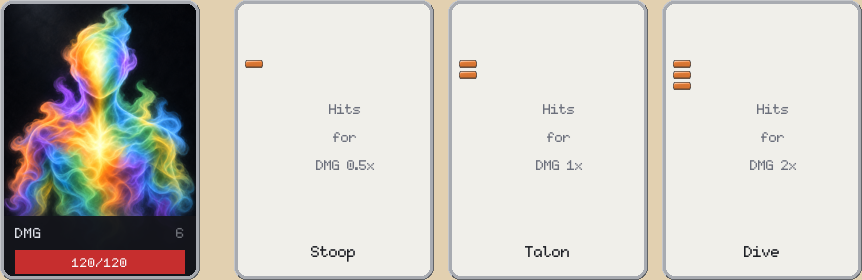
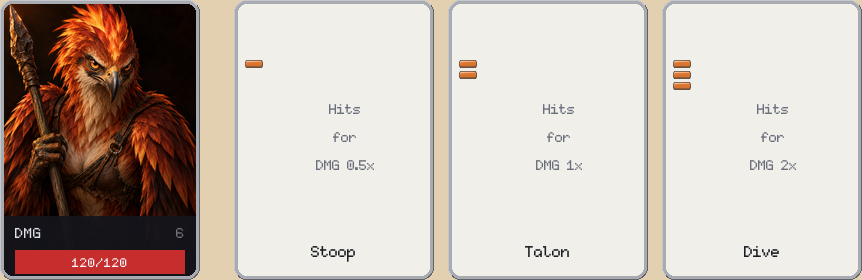
Draw the avians
Thirty-six portraits land in assets/enemy/ — nine records across three tiers,
each in the four elements its affinities allow — and the roster sheet is
regenerated, so the nine avian strips draw real art instead of
default-enemy.png and an other-colours row appears for each record now that it
has more than one picture to show.

All new files, nothing replaced: every one 200x280, every stem matching a
record, no record left without one. Only the avian strips and the sheet index
moved.

Changed region(s): [[0.0, 0.0, 0.2413, 0.7714]]

diff --git a/docs/sheets/motifsheet/index.html b/docs/sheets/motifsheet/index.html
@@ -1686,7 +1686,20 @@ table.cover td.short { color: #b03a3a; font-weight: 700; }
       <p class="affix">Dealt as: ice, lightning, earth, arcane</p>
 
       
-      <p class="draw">TBD</p>
+      <details class="others">
+        <summary>Show its other 3 colours</summary>
+        <div class="strip">
+          <div>
+            <img src="elements-avians-outer-crow.png" width="628" height="280"
+                 alt="Carrion Crow in its other colours">
+            <div class="elabels">
+              <span>Lightning</span><span>Earth</span><span>Arcane</span>
+            </div>
+          </div>
+        </div>
+      </details>
+      
+      <p class="draw">A scavenger that has been at something already. A heavy straight corvid bill, a ragged ruff standing up around the neck, and a lean frame with the wing-arms held half open and the primaries splayed. It carries a short hooked knife low in one claw, held the way a tool is held rather than a weapon, and it is looking at the viewer sideways with one eye.</p>
     </div>
   
     <div class="plate sheet-item" data-tier="outer" data-element="fire lightning earth arcane">
@@ -1740,7 +1753,20 @@ table.cover td.short { color: #b03a3a; font-weight: 700; }
       <p class="affix">Dealt as: fire, lightning, earth, arcane</p>
 
       
-      <p class="draw">TBD</p>
+      <details class="others">
+        <summary>Show its other 3 colours</summary>
+        <div class="strip">
+          <div>
+            <img src="elements-avians-outer-harrier.png" width="628" height="280"
+                 alt="Cliff Harrier in its other colours">
+            <div class="elabels">
+              <span>Lightning</span><span>Earth</span><span>Arcane</span>
+            </div>
+          </div>
+        </div>
+      </details>
+      
+      <p class="draw">A hunter that is about to leave. A raptor&#39;s head — small, smooth, with a deep hooked bill and a hard brow ridge over the eye — on narrow shoulders, with long pointed wing-arms swept back and mantled high behind it. It holds a short hunting spear upright against one shoulder, and the whole body is pitched slightly forward as though the ledge is right there.</p>
     </div>
   
     <div class="plate sheet-item" data-tier="outer" data-element="fire ice earth arcane">
@@ -1794,7 +1820,20 @@ table.cover td.short { color: #b03a3a; font-weight: 700; }
       <p class="affix">Dealt as: fire, ice, earth, arcane</p>
 
       
-      <p class="draw">TBD</p>
+      <details class="others">
+        <summary>Show its other 3 colours</summary>
+        <div class="strip">
+          <div>
+            <img src="elements-avians-outer-ratite.png" width="628" height="280"
+                 alt="Bone Ratite in its other colours">
+            <div class="elabels">
+              <span>Ice</span><span>Earth</span><span>Arcane</span>
+            </div>
+          </div>
+        </div>
+      </details>
+      
+      <p class="draw">A flightless bulk, built low and forward. A small flat head on a thick column of a neck, a blunt heavy bill, and shaggy hair-like plumage over a barrel chest; the wing-arms are stunted and useless, held tight in against the ribs. It grips a crude weighted club in both stubby claws. Frame it lower than its siblings so the tops of its enormous thighs make the bottom of the picture — that is where the creature lives.</p>
     </div>
   
     <div class="plate sheet-item" data-tier="inner" data-element="fire lightning earth arcane">
@@ -1848,7 +1887,20 @@ table.cover td.short { color: #b03a3a; font-weight: 700; }
       <p class="affix">Dealt as: fire, lightning, earth, arcane</p>
 
       
-      <p class="draw">TBD</p>
+      <details class="others">
+        <summary>Show its other 3 colours</summary>
+        <div class="strip">
+          <div>
+            <img src="elements-avians-inner-roc.png" width="628" height="280"
+                 alt="Young Roc in its other colours">
+            <div class="elabels">
+              <span>Lightning</span><span>Earth</span><span>Arcane</span>
+            </div>
+          </div>
+        </div>
+      </details>
+      
+      <p class="draw">A juvenile far too big for how young it is. An eagle&#39;s head and bill at twice the scale of anything around it, with patches of unshed down still standing up along the crown and shoulders, and wing-arms so broad they run out of the picture on both sides. It carries a length of splintered ship&#39;s timber as a club, one end still trailing rope.</p>
     </div>
   
     <div class="plate sheet-item" data-tier="inner" data-element="fire ice earth arcane">
@@ -1902,7 +1954,20 @@ table.cover td.short { color: #b03a3a; font-weight: 700; }
       <p class="affix">Dealt as: fire, ice, earth, arcane</p>
 
       
-      <p class="draw">TBD</p>
+      <details class="others">
+        <summary>Show its other 3 colours</summary>
+        <div class="strip">
+          <div>
+            <img src="elements-avians-inner-harpy.png" width="628" height="280"
+                 alt="Harpy in its other colours">
+            <div class="elabels">
+              <span>Ice</span><span>Earth</span><span>Arcane</span>
+            </div>
+          </div>
+        </div>
+      </details>
+      
+      <p class="draw">Caught mid-shriek. A gaunt narrow head with the bill wide open and the throat distended, the crest feathers flattened back by its own noise, and every feather on the neck and chest ragged and out of line. Hooked blades are strapped along the inside of both forearms rather than held, so the wing-arms are flung out and empty.</p>
     </div>
   
     <div class="plate sheet-item" data-tier="inner" data-element="fire ice lightning arcane">
@@ -1956,7 +2021,20 @@ table.cover td.short { color: #b03a3a; font-weight: 700; }
       <p class="affix">Dealt as: fire, ice, lightning, arcane</p>
 
       
-      <p class="draw">TBD</p>
+      <details class="others">
+        <summary>Show its other 3 colours</summary>
+        <div class="strip">
+          <div>
+            <img src="elements-avians-inner-phoenix.png" width="628" height="280"
+                 alt="Ember Phoenix in its other colours">
+            <div class="elabels">
+              <span>Ice</span><span>Lightning</span><span>Arcane</span>
+            </div>
+          </div>
+        </div>
+      </details>
+      
+      <p class="draw">The elegant one. A slender head, a fine tapered bill, and a long trailing crest that lifts up and back out of the top of the frame, with plumes streaming off the forearms as though a draft is coming up past it from below. It holds a slim curved sword point-up in front of itself, both claws on the grip, perfectly still.</p>
     </div>
   
     <div class="plate sheet-item" data-tier="boss" data-element="fire ice earth arcane">
@@ -2018,7 +2096,20 @@ table.cover td.short { color: #b03a3a; font-weight: 700; }
       <p class="affix">Dealt as: fire, ice, earth, arcane</p>
 
       
-      <p class="draw">TBD</p>
+      <details class="others">
+        <summary>Show its other 3 colours</summary>
+        <div class="strip">
+          <div>
+            <img src="elements-avians-boss-skyfather.png" width="628" height="280"
+                 alt="The Sky-Father in its other colours">
+            <div class="elabels">
+              <span>Ice</span><span>Earth</span><span>Arcane</span>
+            </div>
+          </div>
+        </div>
+      </details>
+      
+      <p class="draw">An old king of birds. A broad heavy eagle&#39;s head, deeply hooded over the eyes, with a mantle of long overlapping feathers lying across the shoulders like a cloak, and a chest twice the width of anything below it in the tower. It holds a long-hafted spear upright in one claw, planted, and does not lean on it.</p>
     </div>
   
     <div class="plate sheet-item" data-tier="boss" data-element="fire ice lightning arcane">
@@ -2080,7 +2171,20 @@ table.cover td.short { color: #b03a3a; font-weight: 700; }
       <p class="affix">Dealt as: fire, ice, lightning, arcane</p>
 
       
-      <p class="draw">TBD</p>
+      <details class="others">
+        <summary>Show its other 3 colours</summary>
+        <div class="strip">
+          <div>
+            <img src="elements-avians-boss-greatroc.png" width="628" height="280"
+                 alt="The Great Roc in its other colours">
+            <div class="elabels">
+              <span>Ice</span><span>Lightning</span><span>Arcane</span>
+            </div>
+          </div>
+        </div>
+      </details>
+      
+      <p class="draw">Too large for the picture and composed that way. The shoulders reach both edges, the folded wing-arms run out of the top of the frame, and the head — an enormous hooked bill, the eye small in all that bone — is turned square onto the viewer with the bill slightly parted. A ship&#39;s anchor hangs from one claw on a short length of chain, carried as casually as a stone.</p>
     </div>
   
     <div class="plate sheet-item" data-tier="boss" data-element="fire ice lightning earth">
@@ -2142,7 +2246,20 @@ table.cover td.short { color: #b03a3a; font-weight: 700; }
       <p class="affix">Dealt as: fire, ice, lightning, earth</p>
 
       
-      <p class="draw">TBD</p>
+      <details class="others">
+        <summary>Show its other 3 colours</summary>
+        <div class="strip">
+          <div>
+            <img src="elements-avians-boss-corvid.png" width="628" height="280"
+                 alt="The Corvid King in its other colours">
+            <div class="elabels">
+              <span>Ice</span><span>Lightning</span><span>Earth</span>
+            </div>
+          </div>
+        </div>
+      </details>
+      
+      <p class="draw">A crow that has collected. A high domed skull and a long straight bill, with rings, coin discs and threaded links worked in among the feathers of the neck and crown until the plumage reads as a hoard rather than as ornament. It holds a long hooked bill-hook across its body in one claw and a bundle of notched tally sticks in the other, and it is counting you.</p>
     </div>
   
 </section>
